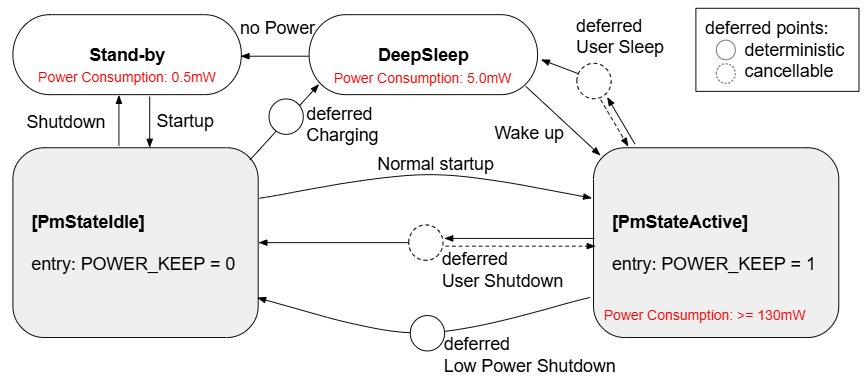
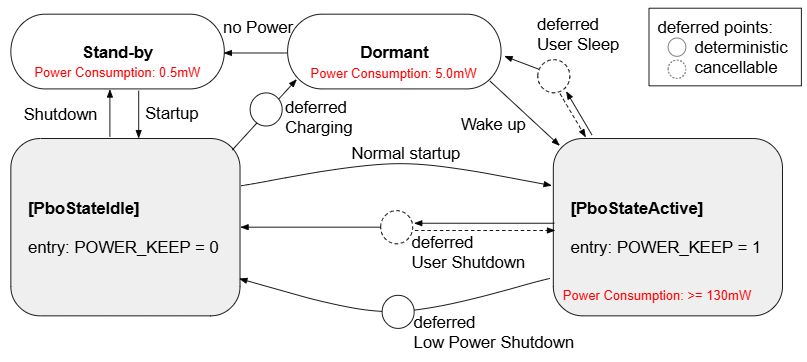
align wording DeepSleep into Dormant

diff --git a/pico_battery_op.h b/pico_battery_op.h
@@ -13,6 +13,11 @@
 extern "C" {
 #endif
 
+// Terminology: "Sleep" is this library's low-power operation (a POWER double push,
+// or the automatic charge case); it runs on the RP2 "dormant" mode (the Pico SDK's
+// term, sleep_goto_dormant_until_pin()) and is unrelated to sleep_ms(), a busy-wait
+// delay. "dormant" always refers to that physical mode.
+
 // Button gesture events reported to the application via on_button_event().
 typedef enum {
     ButtonPowerSingle = 0,
@@ -30,10 +35,10 @@ typedef enum {
 
 // Power state managed by the power management state machine (pbo_process()).
 //   PboStateIdle   : power-keep latch released. Boot boundary and shutdown target.
-//                   With USB it charges (DeepSleep); without USB the hardware
+//                   With USB it charges (dormant); without USB the hardware
 //                   powers off. Not a "running" state.
-//   PboStateActive : latch held, running. A Sleep just puts the CPU into DeepSleep
-//                   while staying in PboStateActive; it is not a separate state.
+//   PboStateActive : latch held, running. A Sleep just puts the CPU into dormant
+//                   mode while staying in PboStateActive; it is not a separate state.
 typedef enum _pbo_state_t {
     PboStateIdle = 0,
     PboStateActive
@@ -44,10 +49,10 @@ typedef enum _pbo_state_t {
 // pbo_cancel_deferred() before its deadline.
 typedef enum _pbo_deferred_reason_t {
     PboDeferredNone = 0,
-    PboDeferredSleep,        // PboStateActive -> DeepSleep        (cancelable)
+    PboDeferredSleep,        // PboStateActive -> dormant          (cancelable)
     PboDeferredShutdown,     // PboStateActive -> PboStateIdle     (cancelable)
     PboDeferredLowBattery,   // PboStateActive -> PboStateIdle     (NOT cancelable)
-    PboDeferredCharge        // PboStateIdle(USB) -> DeepSleep     (NOT cancelable)
+    PboDeferredCharge        // PboStateIdle(USB) -> dormant       (NOT cancelable)
 } pbo_deferred_reason_t;
 
 typedef struct _pbo_deferred_info_t {
@@ -59,7 +64,7 @@ typedef struct _pbo_deferred_info_t {
 // Power action a POWER-switch gesture is mapped to (see pbo_config_t::power_action_*).
 typedef enum _pbo_power_action_t {
     PboActionNone = 0,   // not a power trigger; forward the gesture to on_button_event
-    PboActionSleep,      // enter DeepSleep (schedules PboDeferredSleep)
+    PboActionSleep,      // enter dormant  (schedules PboDeferredSleep)
     PboActionShutdown    // shut down       (schedules PboDeferredShutdown)
 } pbo_power_action_t;
 
@@ -81,10 +86,10 @@ typedef struct _pbo_callbacks_t {
     // While a deferred action is pending, all button events are forwarded here so the
     // app can decide to pbo_cancel_deferred() it.
     void (*on_button_event)(button_action_t btn_act);
-    // Just before entering DeepSleep (a Sleep or charging); the app quiesces its
+    // Just before entering dormant mode (a Sleep or charging); the app quiesces its
     // peripherals (e.g. display_deinit(), peripheral power off).
     void (*on_enter_dormant)();
-    // Just after waking from DeepSleep. The state is already PboStateActive.
+    // Just after waking from dormant mode. The state is already PboStateActive.
     void (*on_exit_dormant)();
 } pbo_callbacks_t;
 
@@ -96,13 +101,13 @@ typedef struct _pbo_config_t {
     uint32_t pin_power_sw;      // power switch / dormant wake pin (default 28)
     uint32_t pin_user_sw;       // user switch, PBO_PIN_UNUSED if not wired (default PBO_PIN_UNUSED)
     // Delays for deferred actions.
-    uint32_t sleep_defer_ms;    // before a Sleep (enter DeepSleep)
+    uint32_t sleep_defer_ms;    // before a Sleep (enter dormant)
     uint32_t shutdown_defer_ms; // before releasing latch (shutdown / low battery)
-    uint32_t charge_defer_ms;   // before charging (enter DeepSleep)
+    uint32_t charge_defer_ms;   // before charging (enter dormant)
     // POWER-switch gesture -> power action mapping. PboActionNone forwards the
     // gesture to on_button_event instead of triggering a power action.
-    pbo_power_action_t power_action_single;    // default PboActionSleep
-    pbo_power_action_t power_action_double;    // default PboActionNone
+    pbo_power_action_t power_action_single;    // default PboActionNone
+    pbo_power_action_t power_action_double;    // default PboActionSleep
     pbo_power_action_t power_action_triple;    // default PboActionNone
     pbo_power_action_t power_action_long;      // default PboActionNone
     pbo_power_action_t power_action_longlong;  // default PboActionShutdown
@@ -134,7 +139,7 @@ bool pbo_is_caused_reboot();
 void pbo_start();
 // Advance the power state machine. Call it periodically from the main loop
 // (timing uses absolute time, so the exact cadence is not critical). This may
-// block while dormant (DeepSleep, or charging in PboStateIdle).
+// block while dormant (a Sleep, or charging in PboStateIdle).
 void pbo_process();
 // Current power state.
 pbo_state_t pbo_get_state();

diff --git a/pico_battery_op.cpp b/pico_battery_op.cpp
@@ -329,14 +329,14 @@ static void _clear_btn_evt()
 // === 'recover_from_sleep' part (start) ===================================
 // great reference from 'recover_from_sleep'
 // https://github.com/ghubcoder/PicoSleepDemo | https://ghubcoder.github.io/posts/awaking-the-pico/
-static void _preserve_clock_before_sleep()
+static void _preserve_clock_before_dormant()
 {
     _scr = scb_hw->scr;
     _sleep_en0 = clocks_hw->sleep_en0;
     _sleep_en1 = clocks_hw->sleep_en1;
 }
 
-static void _recover_clock_after_sleep()
+static void _recover_clock_after_dormant()
 {
     rosc_write(&rosc_hw->ctrl, ROSC_CTRL_ENABLE_BITS); //Re-enable ring Oscillator control
     scb_hw->scr = _scr;
@@ -355,17 +355,17 @@ static void _enter_dormant_and_wake()
 
     // === [2] goto dormant then wake up ===
     uint32_t ints = save_and_disable_interrupts(); // (+a)
-    _preserve_clock_before_sleep(); // (+b)
+    _preserve_clock_before_dormant(); // (+b)
     sleep_run_from_xosc();
     // go to dormant until the Power switch is pushed (fall edge detected)
     sleep_goto_dormant_until_pin(_cfg.pin_power_sw, true, false);
 
-    // ------------------
-    // --- Deep Sleep ---
-    // ------------------
+    // ---------------
+    // --- Dormant ---
+    // ---------------
 
     // wake up from here (Power switch push)
-    _recover_clock_after_sleep(); // (-b)
+    _recover_clock_after_dormant(); // (-b)
     restore_interrupts(ints); // (-a)
 
     // === [3] treatments after wake up ===
@@ -412,7 +412,7 @@ static void _begin_defer(pbo_deferred_reason_t reason, uint32_t defer_ms)
     }
 }
 
-// Enter DeepSleep and resume running. Shared by the Sleep and the charging DeepSleep:
+// Enter dormant mode and resume running. Shared by the Sleep and the charging dormant:
 // the power-keep latch (held for Sleep, released for charge) is already set by the
 // current state's invariant, so this touches only the callbacks.
 static void _dormant_and_resume()
@@ -432,8 +432,8 @@ static void _run_deferred()
     pbo_deferred_reason_t reason = _deferred;
     _deferred = PboDeferredNone;
     switch (reason) {
-        case PboDeferredSleep:    // enter DeepSleep from PboStateActive (Sleep, latch held)
-        case PboDeferredCharge:   // enter DeepSleep from PboStateIdle (charge, latch released)
+        case PboDeferredSleep:    // enter dormant from PboStateActive (Sleep, latch held)
+        case PboDeferredCharge:   // enter dormant from PboStateIdle (charge, latch released)
             _dormant_and_resume();
             break;
         case PboDeferredShutdown:

diff --git a/samples/battery_op_basic/main.c b/samples/battery_op_basic/main.c
@@ -7,18 +7,18 @@
 #include "pico/stdlib.h"
 #include "pico_battery_op.h"
 
-// LED blink rate: 1 Hz on a fresh startup, 2 Hz after resuming from a DeepSleep.
+// LED blink rate: 1 Hz on a fresh startup, 2 Hz after resuming from dormant mode.
 static bool resumed_from_sleep = false;
 
-// Turn the LED off just before the library enters DeepSleep (a Sleep keeps
-// PboStateActive). This keeps the LED dark while sleeping, regardless of the
+// Turn the LED off just before the library enters dormant mode (a Sleep keeps
+// PboStateActive). This keeps the LED dark while dormant, regardless of the
 // blink phase at that moment.
 static void on_enter_dormant(void)
 {
     gpio_put(PICO_DEFAULT_LED_PIN, false);
 }
 
-// Just after waking from DeepSleep; switch the blink rate to 2 Hz.
+// Just after waking from dormant mode; switch the blink rate to 2 Hz.
 static void on_exit_dormant(void)
 {
     resumed_from_sleep = true;
@@ -31,7 +31,7 @@ int main(void)
     gpio_set_dir(PICO_DEFAULT_LED_PIN, GPIO_OUT);
 
     // Power management with the default configuration (no extra devices, no serial
-    // output). Callbacks handle the LED around DeepSleep.
+    // output). Callbacks handle the LED around dormant mode.
     pbo_config_t config = pbo_get_default_config();
     config.callbacks.on_enter_dormant = on_enter_dormant;
     config.callbacks.on_exit_dormant = on_exit_dormant;
@@ -43,7 +43,7 @@ int main(void)
         pbo_process();
 
         // Blink the on-board LED while running: 1 Hz (500 ms on / 500 ms off) after a
-        // fresh startup, 2 Hz (250 ms on / 250 ms off) after resuming from a DeepSleep.
+        // fresh startup, 2 Hz (250 ms on / 250 ms off) after resuming from dormant mode.
         // Keep it off in any other state.
         if (pbo_get_state() == PboStateActive) {
             uint32_t half_ms = resumed_from_sleep ? 250 : 500;

diff --git a/samples/battery_op_with_ssd1306/main.cpp b/samples/battery_op_with_ssd1306/main.cpp
@@ -110,9 +110,9 @@ int main()
     // Start from defaults, then override only what this board needs.
     pbo_config_t config = pbo_get_default_config();
     config.pin_user_sw = 17; // this board wires the user switch to GPIO17
-    config.sleep_defer_ms = 3000;    // 3 s announce before a Sleep (DeepSleep)
+    config.sleep_defer_ms = 3000;    // 3 s announce before a Sleep (dormant)
     config.shutdown_defer_ms = 3000; // 3 s announce before shutdown / low battery
-    config.charge_defer_ms = 3000;   // 3 s announce before charging (DeepSleep)
+    config.charge_defer_ms = 3000;   // 3 s announce before charging (dormant)
     config.callbacks.on_button_event = on_button_event;
     config.callbacks.on_enter_dormant = on_enter_dormant;
     config.callbacks.on_exit_dormant = on_exit_dormant;

diff --git a/README.md b/README.md
@@ -64,6 +64,12 @@ POWER_KEEP and POWER_SW to any other GPIOs instead and set `pin_power_keep` / `p
 
 ## Power state model
 
+> **Terminology.** *Sleep* is this library's low-power operation (a POWER double push, or the
+> automatic charge case): the CPU stops but the DC/DC latch may stay held, and it wakes back to
+> `PboStateActive`. It runs on the RP2 **dormant** mode - the Pico SDK's term
+> (`sleep_goto_dormant_until_pin()`) - and is unrelated to `sleep_ms()`, an ordinary busy-wait delay.
+> Throughout this document, *dormant* always means that physical low-power mode.
+
 **Stand-by (hardware)** - the RP2 DC/DC is off and the firmware is not running. The board is
 powered on by the external H/W circuit (power-switch long push, or USB plug). In firmware this
 condition is represented only at its boundary, as `PboStateIdle`.
@@ -75,18 +81,18 @@ condition is represented only at its boundary, as `PboStateIdle`.
 | State | power-keep | Meaning |
 |-------|-----------|---------|
 | `PboStateIdle`   | released | Boot boundary and shutdown target. With USB -> charging (dormant); without USB -> hardware powers off. Not a running state (CPU is dormant/off). |
-| `PboStateActive` | held     | Running. A Sleep just puts the CPU into DeepSleep while staying in `PboStateActive` - it is not a separate state. |
+| `PboStateActive` | held     | Running. A Sleep just puts the CPU into dormant mode while staying in `PboStateActive` - it is not a separate state. |
 
 ### Boot / power-on behavior
 By default, when USB is not connected, the board is in **Power OFF (Stand-by)** right after a reset
 is released; turn it on with the **Power ON switch** (which sets the DC/DC latch in hardware). When
-**USB is connected**, the board powers up and enters DeepSleep (charge dormant); power is still
+**USB is connected**, the board powers up and enters dormant mode (charging); power is still
 supplied over USB in this state, so a firmware update (flashing over USB) is possible. The firmware
 decides the boot state as follows:
 
 | Condition | Result |
 |---|---|
-| USB present | powered up, then DeepSleep (charge dormant); USB keeps it powered. |
+| USB present | powered up, then dormant (charging); USB keeps it powered. |
 | No USB, Power ON switch held (a real power-on) | come up running. |
 | No USB, switch not held (e.g. a warm RUN reset) | Power OFF (hardware Stand-by). |
 
@@ -107,10 +113,10 @@ as the ssd1306 sample does) and are measured with absolute time (no fixed loop-c
 
 | Reason | Trigger | Run action | Cancelable |
 |---|---|---|---|
-| `PboDeferredSleep`      | POWER gesture mapped to Sleep, default double push (in `Active`)          | DeepSleep -> `Active` | yes |
+| `PboDeferredSleep`      | POWER gesture mapped to Sleep, default double push (in `Active`)          | dormant -> `Active` | yes |
 | `PboDeferredShutdown`   | POWER gesture mapped to Shutdown, default single / long-long (in `Active`) | release latch -> `Idle` | yes |
 | `PboDeferredLowBattery` | low battery (in `Active`)        | release latch -> `Idle` | no |
-| `PboDeferredCharge`     | entering `Idle` with USB present | DeepSleep -> `Active` | no |
+| `PboDeferredCharge`     | entering `Idle` with USB present | dormant -> `Active` | no |
 
 While a deferred action is pending, the library forwards button events to `on_button_event`, so the
 application can call `pbo_cancel_deferred()` (e.g. a second power push aborts a `Sleep` / `Shutdown`).
@@ -168,7 +174,7 @@ Each POWER-switch gesture is mapped to a power action via `power_action_*` (`pbo
 | Action | Effect |
 |---|---|
 | `PboActionNone` | not a power trigger; the gesture is forwarded to `on_button_event` for the app to handle |
-| `PboActionSleep` | enter DeepSleep (schedules `PboDeferredSleep`, honoring `sleep_defer_ms`) |
+| `PboActionSleep` | enter dormant mode (schedules `PboDeferredSleep`, honoring `sleep_defer_ms`) |
 | `PboActionShutdown` | shut down (schedules `PboDeferredShutdown`, honoring `shutdown_defer_ms`) |
 
 Defaults:
@@ -176,13 +182,13 @@ Defaults:
 | POWER gesture | Power action | Effect while `Active` |
 |---|---|---|
 | single         | `PboActionNone`     | forwarded to `on_button_event` (no power effect) |
-| double         | `PboActionSleep`    | enter DeepSleep |
+| double         | `PboActionSleep`    | enter dormant mode |
 | triple         | `PboActionNone`     | forwarded to `on_button_event` |
 | long (1 s)     | `PboActionNone`     | forwarded to `on_button_event` |
 | long-long (2 s)| `PboActionShutdown` | shut down |
 
 **Asymmetric ON / OFF.** Turning the board **ON** is a fixed behavior outside this mapping: a single
-POWER push while OFF (`Idle` / DeepSleep) always powers up / wakes. The mapping therefore only
+POWER push while OFF (`Idle` / dormant) always powers up / wakes. The mapping therefore only
 governs what happens while the board is already **ON**, which lets you assign ON and OFF (and Sleep)
 asymmetrically. With the defaults:
 
@@ -194,7 +200,7 @@ asymmetrically. With the defaults:
 The deliberately heavier gesture for OFF (a 2 s hold) guards against an accidental single press
 powering the board down, while that same single press stays available to your app.
 
-Override only what you want to change, for example to make a single push enter DeepSleep:
+Override only what you want to change, for example to make a single push enter dormant mode:
 
 ```c
 config.power_action_single = PboActionSleep;
@@ -206,7 +212,7 @@ config.power_action_single = PboActionSleep;
 | `on_state_changed(new, prev)` | after an `Idle` ↔ `Active` transition (a Sleep stays `Active`, so it does not fire) | react to entering `Idle` (e.g. persist state before power-off) |
 | `on_deferred(reason)` | a deferred action was scheduled (delay began) | start rendering the announcement |
 | `on_button_event(btn)` | gestures not mapped to a power action (user gestures, and POWER gestures set to `PboActionNone`), and all events while a deferred action is pending | product features / call `pbo_cancel_deferred()` |
-| `on_enter_dormant()` | just before entering DeepSleep (a Sleep or charging) | quiesce peripherals (display off, peripheral power off) |
+| `on_enter_dormant()` | just before entering dormant mode (a Sleep or charging) | quiesce peripherals (display off, peripheral power off) |
 | `on_exit_dormant()` | just after waking (state already `Active`) | restore peripherals (peripheral power on) |
 
 All callbacks run in `pbo_process()` (main-loop) context - never in an ISR.

diff --git a/samples/battery_op_with_ssd1306/README.md b/samples/battery_op_with_ssd1306/README.md
@@ -30,8 +30,8 @@ This sample requires the mandatory external discrete power circuit assumed by th
 ### Peripheral power (application-owned)
 Peripheral 3.3 V power is controlled by the application on **GPIO20** (open-drain, active-low).
 The OLED runs under peripheral power. The application:
-* turns peripheral power **on** when entering `PboStateActive` (`on_state_changed`),
-* turns it **off** together with the display before the library goes dormant (`on_before_dormant`),
+* turns peripheral power **on** at startup and after waking from dormant (`on_exit_dormant`),
+* turns it **off** together with the display before the library goes dormant (`on_enter_dormant`),
 * toggles it on a user-switch single push.
 
 ## User interface / behavior
@@ -48,9 +48,9 @@ The OLED runs under peripheral power. The application:
 ### Buttons
 | Action | Effect |
 |--------|--------|
-| Power switch - single push | start the `Sleep` announce (`GO DORMANT`), then dormant |
-| Power switch - long push | start the `Shutdown` announce, then `Idle` (charge if USB, otherwise power off) |
-| Power switch - single push during a cancelable announce | cancel it (`pbo_cancel()`) |
+| Power switch - double push | start the `Sleep` announce (`GO DORMANT`), then dormant |
+| Power switch - long-long push | start the `Shutdown` announce, then `Idle` (charge if USB, otherwise power off) |
+| Power switch - single push during a cancelable announce | cancel it (`pbo_cancel_deferred()`) |
 | User switch - single push | toggle peripheral power (OLED) |
 | Low battery detected | start the `LOW BATTERY` announce (not cancelable), then `Idle` |
 
@@ -63,9 +63,9 @@ The sample registers three callbacks and drives `pbo_process()` each loop
 
 | Callback | Application action |
 |---|---|
-| `on_state_changed` | turn peripheral power **on** when entering `PboStateActive` |
-| `on_button_event` | user single push → toggle peripheral power; power single push (during a pending) → `pbo_cancel()` |
-| `on_before_dormant` | `display_deinit()` + peripheral power **off** before dormant |
+| `on_button_event` | user single push → toggle peripheral power (OLED); power single push → `pbo_cancel_deferred()` (abort a pending cancelable announce) |
+| `on_enter_dormant` | `display_deinit()` + peripheral power **off** before dormant |
+| `on_exit_dormant` | peripheral power **on** after waking |
 
 ```c
 peripheral_power_init();

diff --git a/samples/battery_op_basic/README.md b/samples/battery_op_basic/README.md
@@ -21,17 +21,17 @@ power-keep latch on **GPIO27** (the user switch is unused). See the
 | State | LED |
 |-------|-----|
 | `PboStateActive`, fresh startup | blinks at 1 Hz (500 ms on / 500 ms off) |
-| `PboStateActive`, resumed from DeepSleep | blinks at 2 Hz (250 ms on / 250 ms off) |
-| DeepSleep | off |
+| `PboStateActive`, resumed from dormant | blinks at 2 Hz (250 ms on / 250 ms off) |
+| dormant | off |
 | any other state | off |
 
 The blink rate distinguishes a fresh startup (1 Hz) from a resume after a Sleep (2 Hz): the
 `on_exit_dormant` callback (fired just after waking) flips the rate to 2 Hz. A Sleep keeps
-`PboStateActive` while the CPU is in DeepSleep, so `on_enter_dormant` turns the LED off to keep it
-dark while sleeping, regardless of the blink phase.
+`PboStateActive` while the CPU is in dormant mode, so `on_enter_dormant` turns the LED off to keep it
+dark while dormant, regardless of the blink phase.
 
-The power switch drives the state machine exactly as the library defines (single push starts a
-`Sleep` announce then DeepSleep, long push starts a `Shutdown`, low battery latches a shutdown).
+The power switch drives the state machine exactly as the library defines (double push starts a
+`Sleep` announce then dormant, long-long push starts a `Shutdown`, low battery latches a shutdown).
 This sample does not render any of those announces; it only reflects the running state on the LED.
 
 When a reset is released with USB not connected the board restarts from OFF (Stand-by); press the
@@ -39,7 +39,7 @@ power switch to run it. See [Boot / power-on behavior](../../README.md#boot--pow
 
 ## How the application integrates with the library
 The sample takes the default config and drives `pbo_process()` each loop. Its callbacks manage the
-LED around DeepSleep (see [main.c](main.c)):
+LED around dormant mode (see [main.c](main.c)):
 
 ```c
 pbo_config_t config = pbo_get_default_config();
@@ -49,7 +49,7 @@ pbo_init(&config);
 pbo_start();
 while (true) {
     pbo_process();
-    // blink the LED while Active: 1 Hz on startup, 2 Hz after a DeepSleep
+    // blink the LED while Active: 1 Hz on startup, 2 Hz after resuming from dormant
     sleep_ms(50);
 }
 ```
